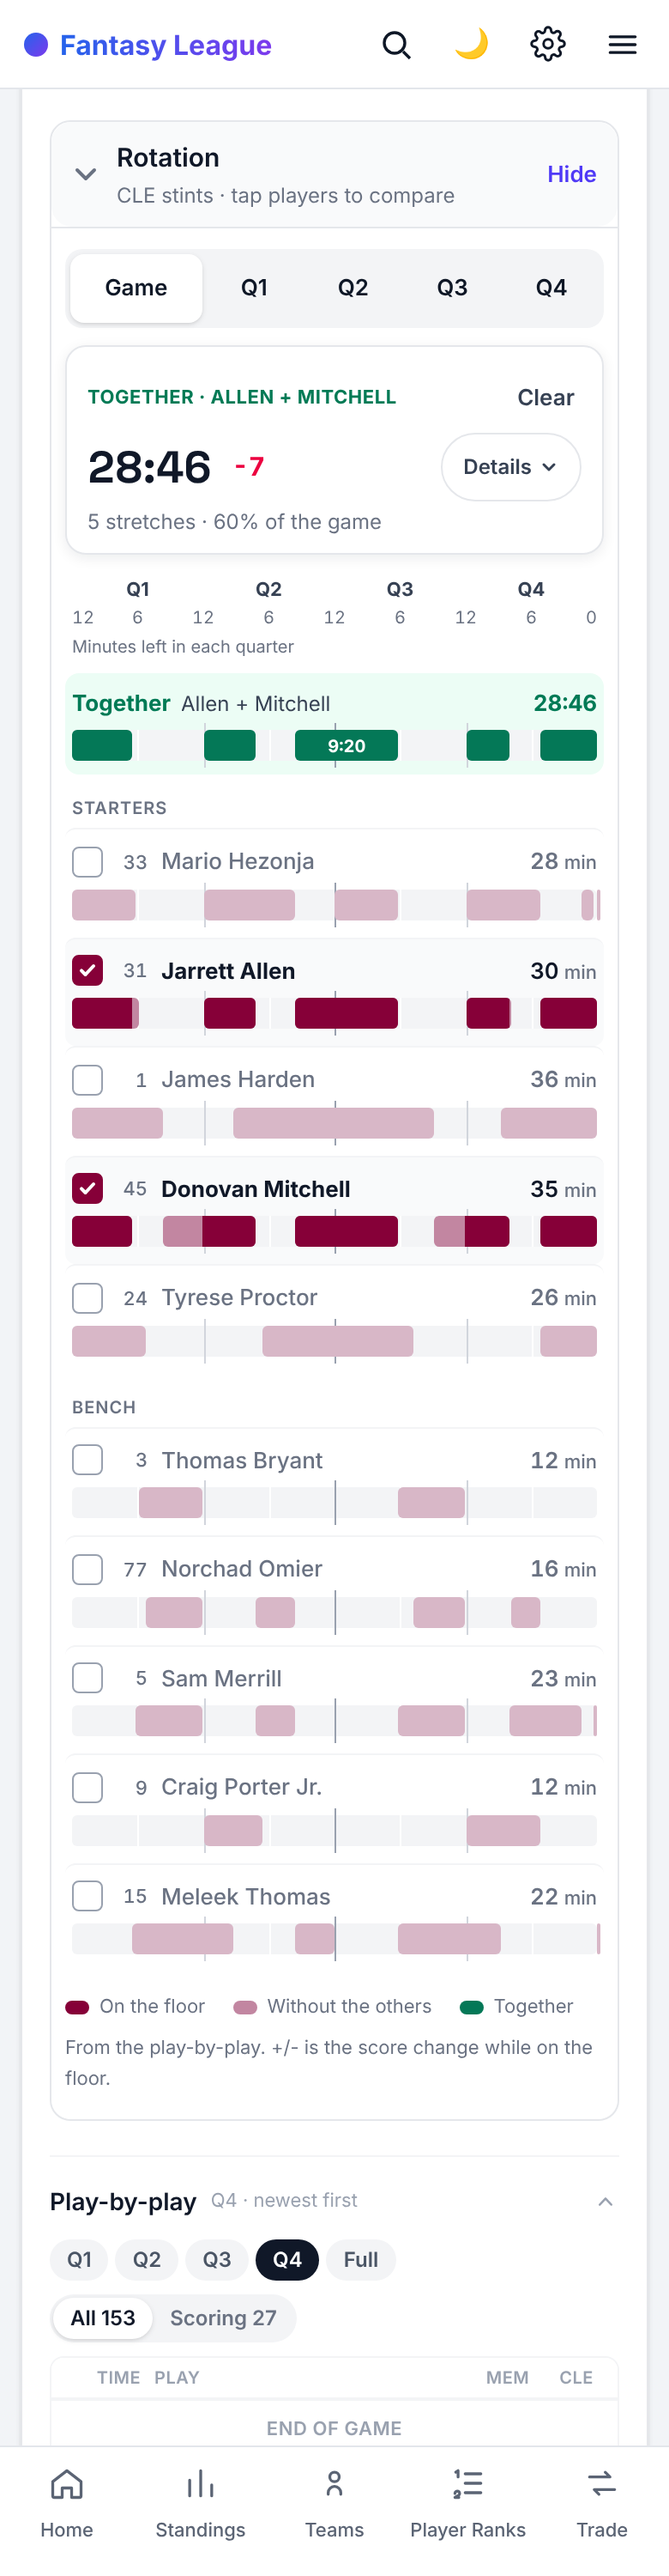
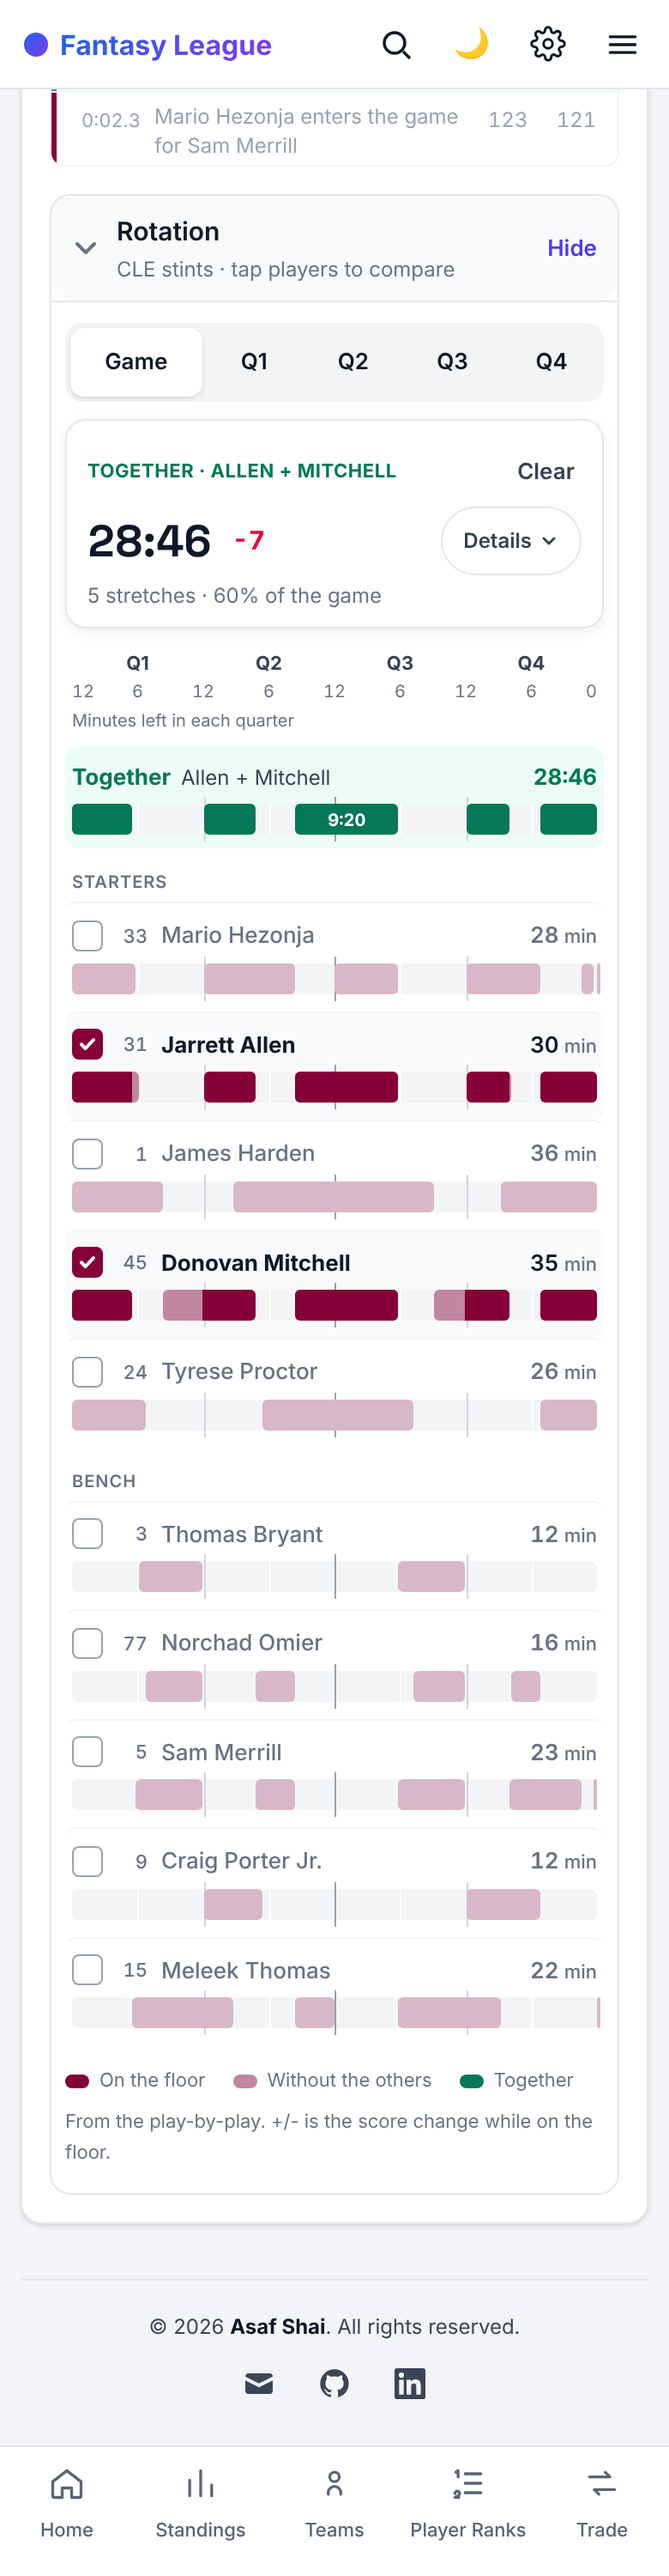
Move the Rotation card below the play-by-play
Claude-Session: https://claude.ai/code/session_0185q4oo2JYyZqmETuaYpEys

diff --git a/frontend/src/components/boxScores/__tests__/RotationCard.test.tsx b/frontend/src/components/boxScores/__tests__/RotationCard.test.tsx
@@ -73,12 +73,15 @@ describe('RotationCard', () => {
     expect(screen.queryByTestId('rotation-card')).not.toBeInTheDocument()
   })
 
-  it('stays hidden while No spoilers hides the game', () => {
+  it('stays hidden while No spoilers hides the game, and comes after the play-by-play', () => {
     const { unmount } = renderWithProviders(<BoxScorePanel game={game} hideScores onToggleReveal={() => {}} />)
     expect(screen.queryByTestId('rotation-card')).not.toBeInTheDocument()
     unmount()
     renderWithProviders(<BoxScorePanel game={game} hideScores={false} />)
-    expect(screen.getByTestId('rotation-card')).toBeInTheDocument()
+    const card = screen.getByTestId('rotation-card')
+    // Sits after the play-by-play, at the end of the panel.
+    const pbp = screen.getByText('Play-by-play', { exact: true })
+    expect(pbp.compareDocumentPosition(card) & Node.DOCUMENT_POSITION_FOLLOWING).toBeTruthy()
   })
 
   it('stacks rows and zooms one quarter on a phone', async () => {

diff --git a/frontend/src/components/boxScores/BoxScorePanel.tsx b/frontend/src/components/boxScores/BoxScorePanel.tsx
@@ -676,11 +676,11 @@ export default function BoxScorePanel({
               mineIds={mineIds}
               live={game.status === 'live'}
             />
-            {!hide && <RotationCard game={game} side={side} mineIds={mineIds} />}
           </div>
         </>
       )}
       {!hide && <PlayByPlay game={game} mineIds={mineIds} />}
+      {!hide && !awaitingTip && <RotationCard game={game} side={side} mineIds={mineIds} />}
     </section>
   )
 }
